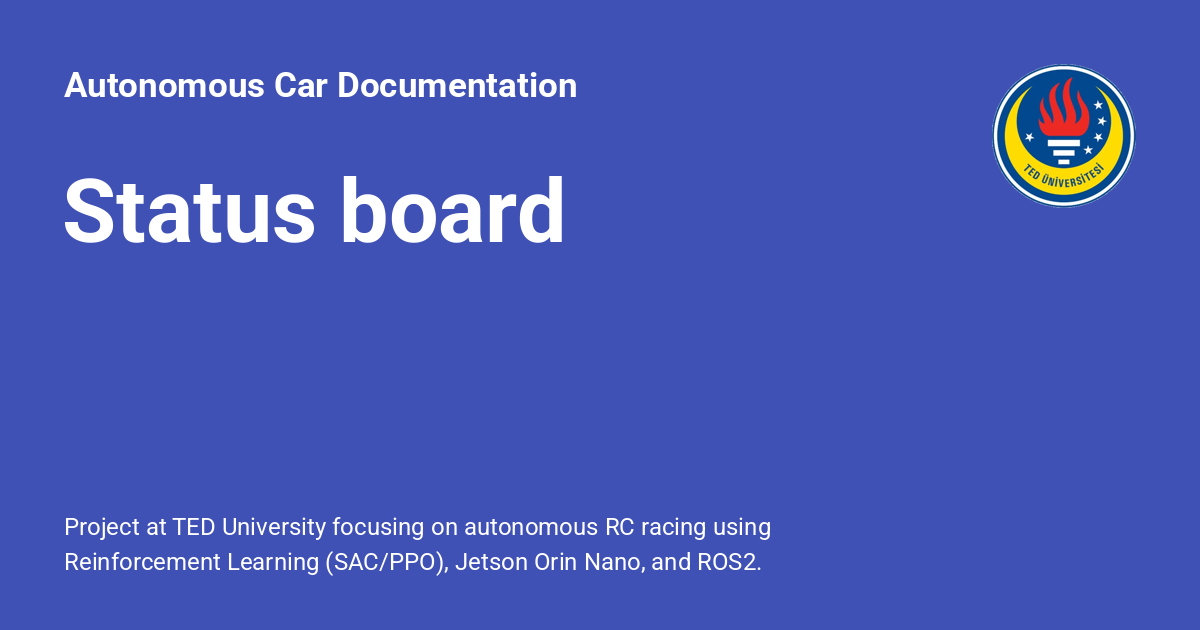
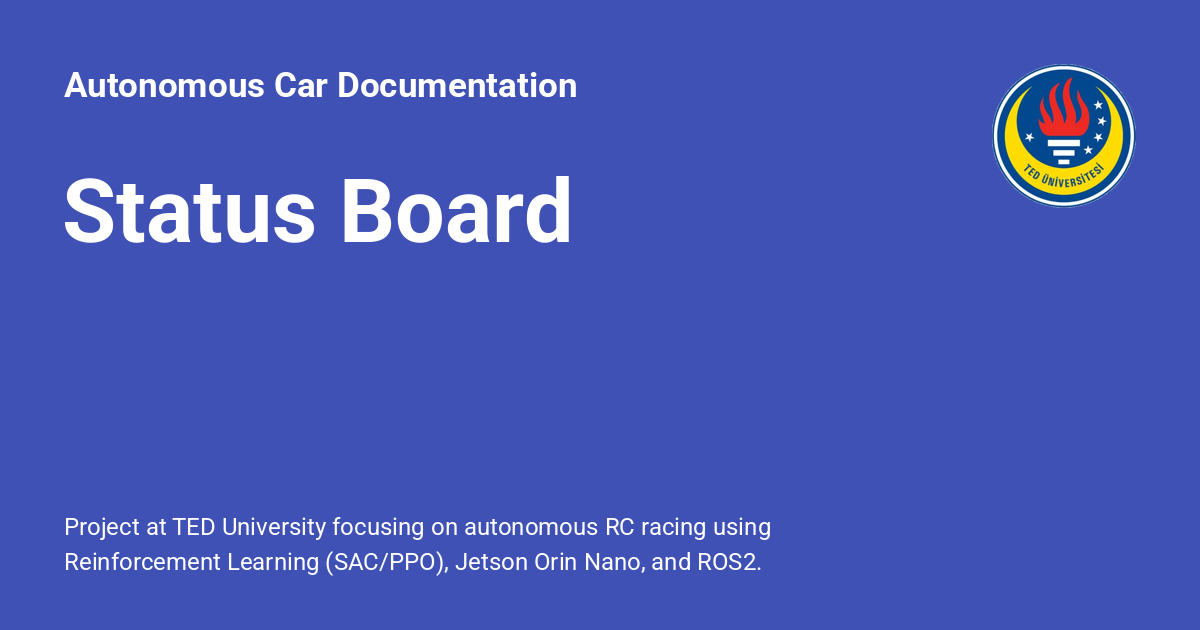
Deployed d553996 with MkDocs version: 1.6.1

Changed region(s): [[0.2775, 0.2714, 0.4933, 0.3921]]

diff --git a/hardware/status_board/index.html b/hardware/status_board/index.html
@@ -29,7 +29,7 @@
     
     
       
-        <title>Status board - Autonomous Car Documentation</title>
+        <title>Status Board - Autonomous Car Documentation</title>
       
     
     
@@ -60,7 +60,7 @@
     
   
 <meta property="og:type" content="website" />
-<meta property="og:title" content="Status board - Autonomous Car Documentation" />
+<meta property="og:title" content="Status Board - Autonomous Car Documentation" />
 <meta property="og:description" content="Project at TED University focusing on autonomous RC racing using Reinforcement Learning (SAC/PPO), Jetson Orin Nano, and ROS2." />
 <meta property="og:image" content="https://tedu-autonomous-rc-car.github.io/rc_documentation/assets/images/social/hardware/status_board.png" />
 <meta property="og:image:type" content="image/png" />
@@ -68,7 +68,7 @@
 <meta property="og:image:height" content="630" />
 <meta property="og:url" content="https://tedu-autonomous-rc-car.github.io/rc_documentation/hardware/status_board/" />
 <meta property="twitter:card" content="summary_large_image" />
-<meta property="twitter:title" content="Status board - Autonomous Car Documentation" />
+<meta property="twitter:title" content="Status Board - Autonomous Car Documentation" />
 <meta property="twitter:description" content="Project at TED University focusing on autonomous RC racing using Reinforcement Learning (SAC/PPO), Jetson Orin Nano, and ROS2." />
 <meta property="twitter:image" content="https://tedu-autonomous-rc-car.github.io/rc_documentation/assets/images/social/hardware/status_board.png" />
 </head>
@@ -83,7 +83,7 @@
     <div data-md-component="skip">
       
         
-        <a href="#1-electronic-parts-list" class="md-skip">
+        <a href="#status-board" class="md-skip">
           Skip to content
         </a>
       
@@ -116,7 +116,7 @@
         <div class="md-header__topic" data-md-component="header-topic">
           <span class="md-ellipsis">
             
-              Status board
+              Status Board
             
           </span>
         </div>
@@ -559,6 +559,8 @@
       <input class="md-nav__toggle md-toggle" type="checkbox" id="__toc">
       
       
+        
+      
       
         <label class="md-nav__link md-nav__link--active" for="__toc">
           
@@ -567,7 +569,7 @@
   <span class="md-ellipsis">
     
   
-    Status board
+    Status Board
   
 
     
@@ -585,7 +587,7 @@
   <span class="md-ellipsis">
     
   
-    Status board
+    Status Board
   
 
     
@@ -600,6 +602,8 @@
 <nav class="md-nav md-nav--secondary" aria-label="Table of contents">
   
   
+  
+    
   
   
     <label class="md-nav__title" for="__toc">
@@ -953,6 +957,8 @@
   
   
   
+    
+  
   
     <label class="md-nav__title" for="__toc">
       <span class="md-nav__icon md-icon"></span>
@@ -1116,8 +1122,7 @@
 
 
 
-  <h1>Status board</h1>
-
+<h1 id="status-board">Status Board</h1>
 <p>This module serves as the primary interface for the autonomous RC car, providing real-time telemetry via an OLED display, status indicators via LEDs, and emergency/status alerts via a piezo buzzer.</p>
 <h3 id="1-electronic-parts-list"><strong>1. Electronic Parts List</strong></h3>
 <p>The following components are required for this build:</p>
@@ -1312,7 +1317,7 @@ It need to be configured these pins using the <code>jetson-io.py</code> tool to 
     <span class="md-icon" title="Last update">
       <svg xmlns="http://www.w3.org/2000/svg" viewBox="0 0 24 24"><path d="M21 13.1c-.1 0-.3.1-.4.2l-1 1 2.1 2.1 1-1c.2-.2.2-.6 0-.8l-1.3-1.3c-.1-.1-.2-.2-.4-.2m-1.9 1.8-6.1 6V23h2.1l6.1-6.1zM12.5 7v5.2l4 2.4-1 1L11 13V7zM11 21.9c-5.1-.5-9-4.8-9-9.9C2 6.5 6.5 2 12 2c5.3 0 9.6 4.1 10 9.3-.3-.1-.6-.2-1-.2s-.7.1-1 .2C19.6 7.2 16.2 4 12 4c-4.4 0-8 3.6-8 8 0 4.1 3.1 7.5 7.1 7.9l-.1.2z"/></svg>
     </span>
-    <span class="git-revision-date-localized-plugin git-revision-date-localized-plugin-date" title="February 11, 2026 14:29:16 UTC">February 11, 2026</span>
+    <span class="git-revision-date-localized-plugin git-revision-date-localized-plugin-date" title="February 11, 2026 14:30:19 UTC">February 11, 2026</span>
   </span>
 
     

diff --git a/404.html b/404.html
@@ -531,7 +531,7 @@
   <span class="md-ellipsis">
     
   
-    Status board
+    Status Board
   
 
     

diff --git a/hardware/bom/index.html b/hardware/bom/index.html
@@ -718,7 +718,7 @@
   <span class="md-ellipsis">
     
   
-    Status board
+    Status Board
   
 
     

diff --git a/hardware/chassis_mechanical/index.html b/hardware/chassis_mechanical/index.html
@@ -679,7 +679,7 @@
   <span class="md-ellipsis">
     
   
-    Status board
+    Status Board
   
 
     

diff --git a/hardware/hardware/index.html b/hardware/hardware/index.html
@@ -724,7 +724,7 @@
   <span class="md-ellipsis">
     
   
-    Status board
+    Status Board
   
 
     

diff --git a/hardware/power_management/index.html b/hardware/power_management/index.html
@@ -764,7 +764,7 @@
   <span class="md-ellipsis">
     
   
-    Status board
+    Status Board
   
 
     

diff --git a/hardware/sensors/index.html b/hardware/sensors/index.html
@@ -735,7 +735,7 @@
   <span class="md-ellipsis">
     
   
-    Status board
+    Status Board
   
 
     

diff --git a/index.html b/index.html
@@ -624,7 +624,7 @@
   <span class="md-ellipsis">
     
   
-    Status board
+    Status Board
   
 
     

diff --git a/jetson/gpio-config/index.html b/jetson/gpio-config/index.html
@@ -557,7 +557,7 @@
   <span class="md-ellipsis">
     
   
-    Status board
+    Status Board
   
 
     

diff --git a/jetson/jetson/index.html b/jetson/jetson/index.html
@@ -552,7 +552,7 @@
   <span class="md-ellipsis">
     
   
-    Status board
+    Status Board
   
 
     

diff --git a/jetson/rplidar/index.html b/jetson/rplidar/index.html
@@ -557,7 +557,7 @@
   <span class="md-ellipsis">
     
   
-    Status board
+    Status Board
   
 
     

diff --git a/jetson/teleop-node/index.html b/jetson/teleop-node/index.html
@@ -555,7 +555,7 @@
   <span class="md-ellipsis">
     
   
-    Status board
+    Status Board
   
 
     
